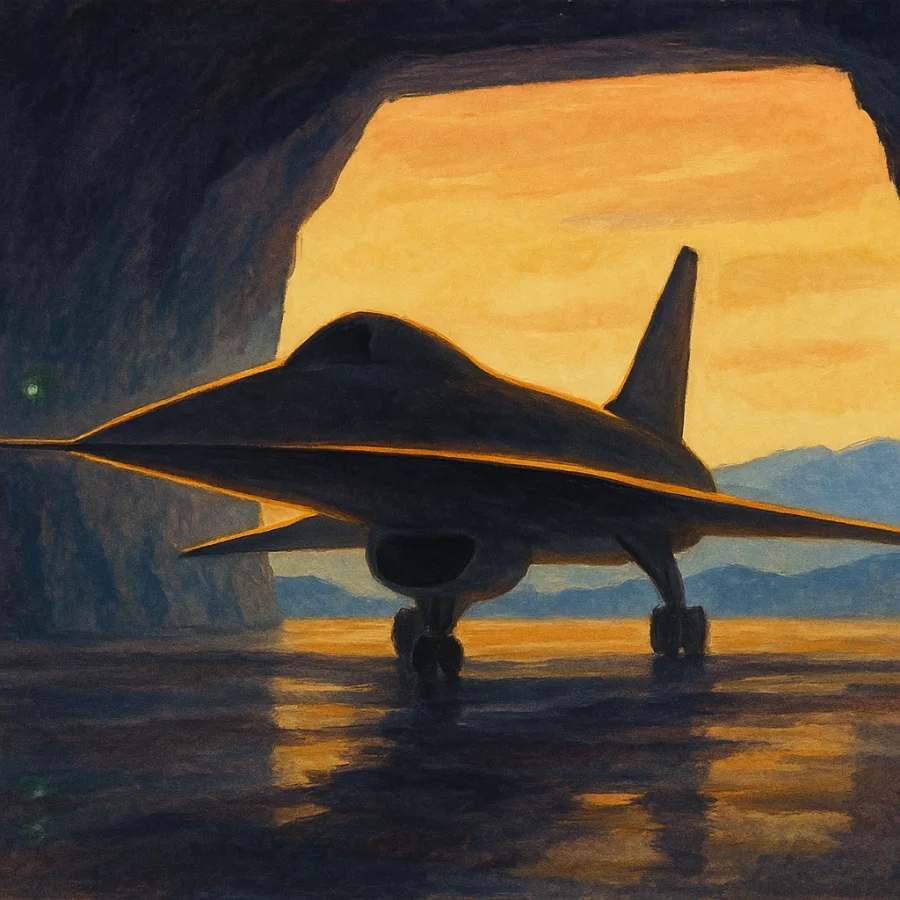
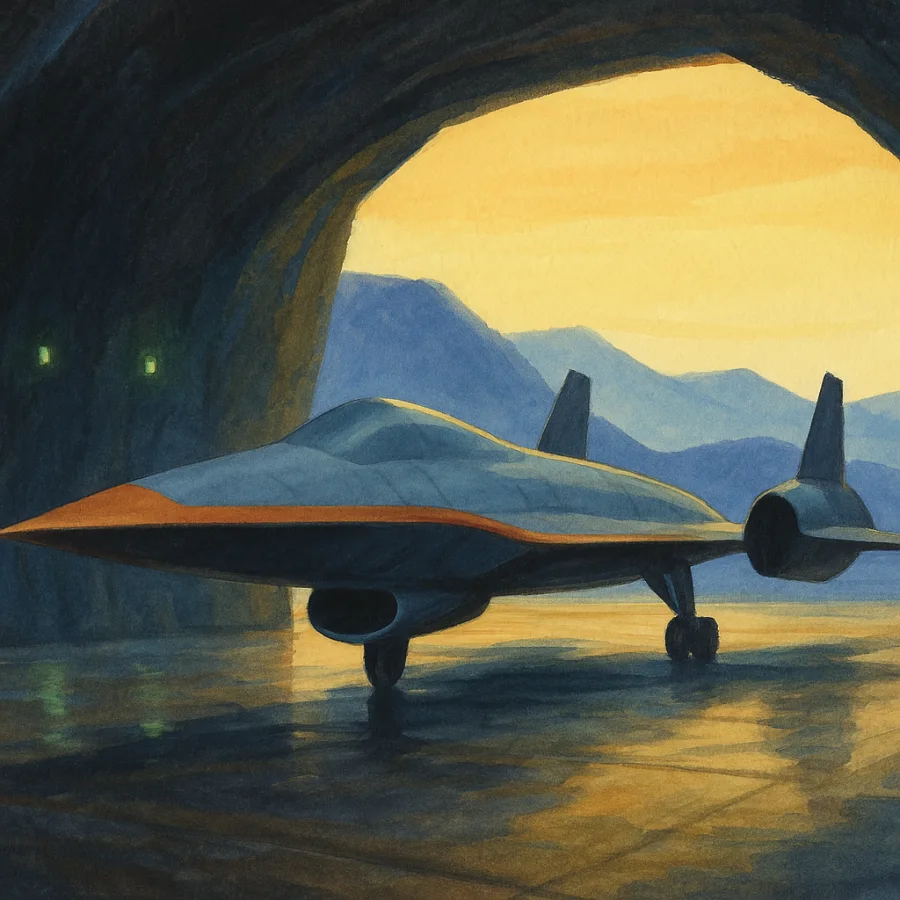
Paint the Rapier that is actually in the game
Owner: "that's not what rapier looks like." Correct -- the first painting was a
generic single-finned delta with a nose intake, drawn from the idea of a
hypersonic interceptor rather than from this one.

Repainted against airframes/rapier.v1.json instead of from imagination:

  13.0 m long on a 7.35 m span -- long and narrow, span barely half the length
  cranked delta: steep inboard leading edge, a notch, shallower outboard panel
  TWO fins at x = +/-0.58, canted, well aft (z 2.2 to 5.7), 2.2 m tall
  a ventral propulsion tunnel running the full length, its intake mouth tucked
    under the nose -- not a rectangular box on the belly
  the escape-pod spine along the top, a smooth blister, and NO canopy anywhere:
    the pilot is inside a composite pressure vessel, which is the whole point of
    the airframe and the one thing the old painting got right by accident
  palette straight off the definition -- upper #596b73, lower #26343a, #765244
    ceramic leading edges, one #b85e32 accent

Two variants were generated and the narrower one kept; the first still read as a
wide stubby delta, which is the proportion error that made the old one wrong.

Also stamps Build 231.

Claude-Session: https://claude.ai/code/session_01DeKHvxXtZcfMxpT1SpfvwQ

diff --git a/web/wwwroot/app.js b/web/wwwroot/app.js
@@ -1,5 +1,5 @@
 import * as THREE from "./vendor/three.module.js";
-import { createHud } from "./hud.js?v=230";
+import { createHud } from "./hud.js?v=231";
 import {
   boundingSphereDiameterFromSize,
   disposeSceneResources,
@@ -16,7 +16,7 @@ import {
 import {
   combatHandoffPresentation,
   sortieResultCopy,
-} from "./render/debrief/sortie_result.js?v=230";
+} from "./render/debrief/sortie_result.js?v=231";
 import { rapierEconomyPresentation } from "./render/debrief/points_ledger.js";
 import { createDamageSmokeTrail } from "./render/effects/damage_smoke_trail.js";
 import { createTacticalCloudField } from "./render/environment/tactical_clouds.js";
@@ -49,7 +49,7 @@ import {
   createReleaseIdentity,
   normalizeBuildInfo,
   runningBuildInfoUrl,
-} from "./render/release/release_identity.js?v=230";
+} from "./render/release/release_identity.js?v=231";
 import {
   createPilotActionController,
   projectTestFlightState,
@@ -62,7 +62,7 @@ import {
   circuitsPadlockTargets,
   padlockTargetValid,
 } from "./render/hud/carrier_sa.js";
-import { recoveryNavigationPresentation } from "./render/hud/limits_panel.js?v=230";
+import { recoveryNavigationPresentation } from "./render/hud/limits_panel.js?v=231";
 import {
   meshNavPresentation,
   parseMeshPlaceCatalog,
@@ -139,13 +139,13 @@ import { createFramePerfAggregator } from "./render/telemetry/frame_perf.js";
 import {
   AdaptiveAiWorkBudget,
   AI_COMPUTE_LEVEL,
-} from "./render/telemetry/ai_frame_pressure.js?v=230";
+} from "./render/telemetry/ai_frame_pressure.js?v=231";
 import { FrameGovernorPolicy } from "./render/telemetry/frame_governor.js";
 import { MeasuredTimeCompressionBudget } from "./render/telemetry/time_compression.js";
 import {
   buildTelemetryBatch,
   retainTelemetryRowsUnderBackpressure,
-} from "./render/telemetry/telemetry_batch.js?v=230";
+} from "./render/telemetry/telemetry_batch.js?v=231";
 import {
   CONTROL_BINDINGS,
   controlCodeLabel,
@@ -154,7 +154,7 @@ import {
   rebindControl,
   resetControlBindings,
   savePlayerSettings,
-} from "./render/settings/player_settings.js?v=230";
+} from "./render/settings/player_settings.js?v=231";
 import {
   AUTHORITY_TICK_HZ,
   DEFAULT_TELEMETRY_TICK_STRIDE,
@@ -200,12 +200,12 @@ import {
   createRapierGunDrone,
   createTransport,
   updateConventionalRunwayPresentation,
-} from "./render/scene/scene_builders.js?v=230";
+} from "./render/scene/scene_builders.js?v=231";
 import {
   setFlightAudioEnabled,
   suspendFlightAudio,
   updateFlightAudio,
-} from "./render/audio/flight_audio.js?v=230";
+} from "./render/audio/flight_audio.js?v=231";
 import {
   primeCasevacAudio,
   setCasevacAudioEnabled,
@@ -10264,7 +10264,7 @@ async function primeOfflineRuntime(registration) {
 // during this boot as well as intercepting every subsequent mission request.
 if ("serviceWorker" in navigator) {
   window.addEventListener("load", () => {
-    navigator.serviceWorker.register("service-worker.js?v=230")
+    navigator.serviceWorker.register("service-worker.js?v=231")
       .then(async (registration) => {
         await navigator.serviceWorker.ready;
         const result = await primeOfflineRuntime(registration);

diff --git a/web/wwwroot/index.html b/web/wwwroot/index.html
@@ -3159,7 +3159,7 @@ Splash one bandit to qualify · H controls · R restarts</p>
           </div>
           <div id="ready-hint" aria-live="polite">Press Enter to fly</div>
           <div id="ready-build-row">
-            <output id="ready-build" data-state="checking">Build 230 · verifying</output>
+            <output id="ready-build" data-state="checking">Build 231 · verifying</output>
             <button id="ready-build-reload" type="button" hidden>Reload current build</button>
           </div>
         </section>
@@ -3225,12 +3225,12 @@ Splash one bandit to qualify · H controls · R restarts</p>
     // app.js arrives. The deep link still selects the sortie -- it is read by the module graph
     // from the same query string -- it just no longer has a splash screen to announce itself on.
 
-    // A network-fresh Build 230 document may still be controlled by Build 178's cache-first
+    // A network-fresh Build 231 document may still be controlled by Build 178's cache-first
     // service worker. Purge that controller and its Cache Storage before Blazor requests the
     // unversioned boot manifest/WASM graph. Offline clients never see this newer document until a
     // network navigation succeeds, so the gate cannot destroy the only usable offline release.
     globalThis.__gunsPrebootReady = (async () => {
-      const releaseBuild = "230";
+      const releaseBuild = "231";
       const controller = navigator.serviceWorker?.controller;
       if (!controller) return;
       const controllerBuild = new URL(controller.scriptURL, location.href)
@@ -3249,8 +3249,8 @@ Splash one bandit to qualify · H controls · R restarts</p>
       }
     })();
   </script>
-  <script src="./multiplayer-config.js?v=230"></script>
-  <script type="module" src="./app.js?v=230"></script>
-  <script src="./_framework/blazor.webassembly.js?v=230" autostart="false"></script>
+  <script src="./multiplayer-config.js?v=231"></script>
+  <script type="module" src="./app.js?v=231"></script>
+  <script src="./_framework/blazor.webassembly.js?v=231" autostart="false"></script>
 </body>
 </html>

diff --git a/web/wwwroot/environment-lab/main.js b/web/wwwroot/environment-lab/main.js
@@ -2,7 +2,7 @@ import * as THREE from "../vendor/three.module.js";
 import { OrbitControls } from "../vendor/three/addons/controls/OrbitControls.js";
 import { loadKoreaEnvironment } from "../render/environment/korea_environment.js";
 import { attachSoftWorldGroundHaze } from "../render/environment/soft_world_atmosphere.js";
-import { createDecisionSupportSky } from "../render/scene/scene_builders.js?v=230";
+import { createDecisionSupportSky } from "../render/scene/scene_builders.js?v=231";
 import { loadKoreaTerrain } from "../render/environment/korea_terrain.js";
 import { createTacticalCloudField } from "../render/environment/tactical_clouds.js?v=authoritative-clouds-v3";
 import {

diff --git a/web/wwwroot/service-worker.js b/web/wwwroot/service-worker.js
@@ -15,7 +15,7 @@
 // The cache name carries the release build, so shipping a new build orphans the old cache and
 // activate() deletes it. That reuses the existing stamp ritual rather than inventing a second
 // versioning scheme — see web/wwwroot/render/release/release_identity.js.
-const RELEASE_BUILD = "230";
+const RELEASE_BUILD = "231";
 const CACHE = `guns-only-${RELEASE_BUILD}`;
 
 // Never cached: telemetry and the multiplayer room are live services, and a cached reply would be

diff --git a/web/wwwroot/render/scene/scene_builders.js b/web/wwwroot/render/scene/scene_builders.js
@@ -8,7 +8,7 @@ import {
   UKRAINE_SOFT_WORLD_HAZE_MIX,
   UKRAINE_SOFT_WORLD_HAZE_RGB,
 } from "../environment/soft_world_atmosphere.js";
-import { createAirframeFromDefinition } from "./airframe_from_definition.js?v=230";
+import { createAirframeFromDefinition } from "./airframe_from_definition.js?v=231";
 import rapierV1Definition from "../../airframes/rapier_v1.embedded.js";
 import { createRapierLaunchFx } from "../effects/rapier_launch_fx.js";
 

diff --git a/web/wwwroot/api/build-info.js b/web/wwwroot/api/build-info.js
@@ -1,7 +1,7 @@
 // Public, read-only release provenance. The browser uses this to detect a stale static shell and
 // telemetry uses it to distinguish deployments which share the same human-facing release number.
 
-const RELEASE_BUILD = "230";
+const RELEASE_BUILD = "231";
 
 function safeToken(value, maximumLength) {
   const token = String(value || "").trim();

diff --git a/web/wwwroot/hud.js b/web/wwwroot/hud.js
@@ -52,7 +52,7 @@ import { hudPhasePresentation } from "./render/hud/hud_phase.js";
 import {
   armFlightAudio,
   setFlightAudioEnabled,
-} from "./render/audio/flight_audio.js?v=230";
+} from "./render/audio/flight_audio.js?v=231";
 
 const GREEN = "#4dff88";
 const GREEN_DIM = "rgba(77, 255, 136, 0.68)";

diff --git a/web/wwwroot/render/scene/airframe_from_definition.js b/web/wwwroot/render/scene/airframe_from_definition.js
@@ -6,7 +6,7 @@ import {
   createLoftGeometry,
   createPlanformGeometry,
   makeMaterial,
-} from "./scene_builders.js?v=230";
+} from "./scene_builders.js?v=231";
 
 function parseColor(value, fallback = 0x808080) {
   if (typeof value === "number" && Number.isFinite(value)) return value;

diff --git a/web/wwwroot/render/release/release_identity.js b/web/wwwroot/render/release/release_identity.js
@@ -1,4 +1,4 @@
-export const RELEASE_BUILD = "230";
+export const RELEASE_BUILD = "231";
 export const CANONICAL_PRODUCTION_ORIGIN = "https://guns-only.com";
 
 // Custom domains the guns-only Vercel project serves in production. guns-only.com is the
